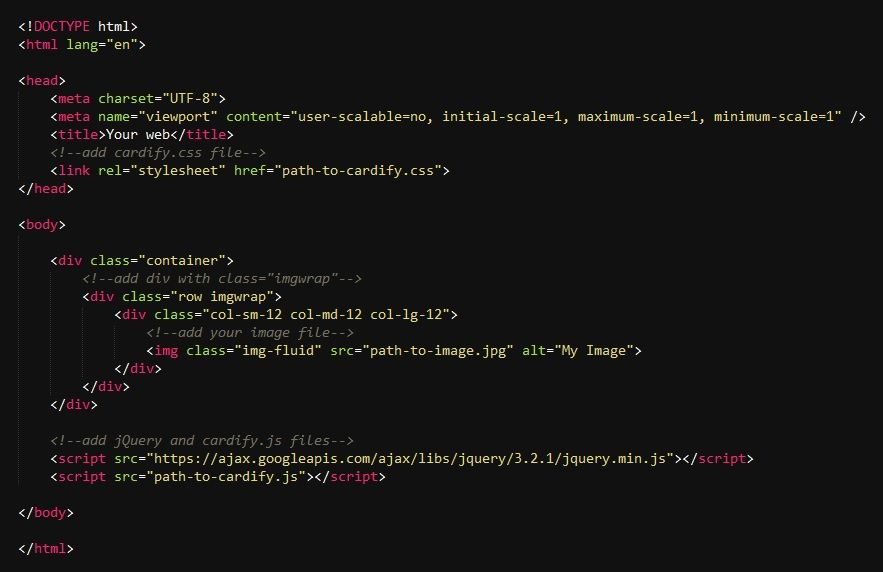
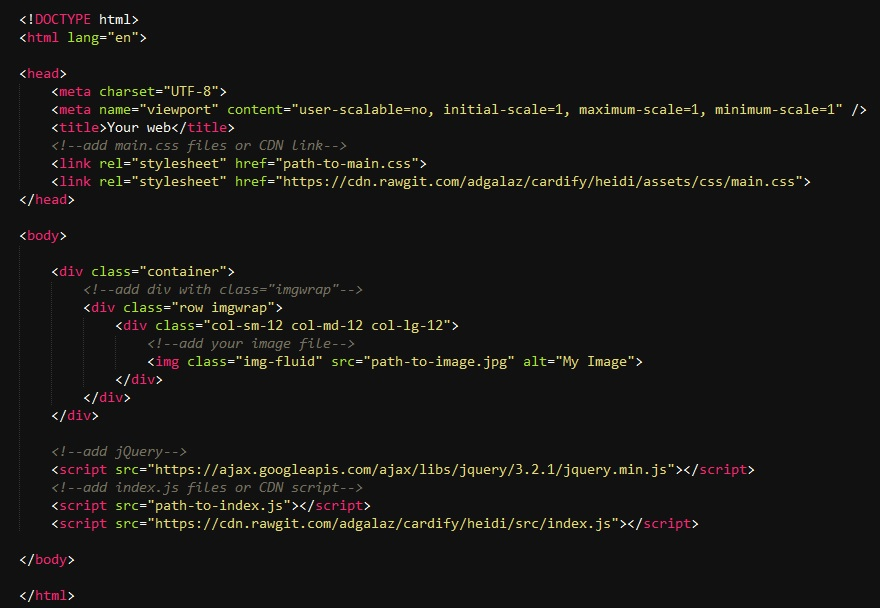
quitando informacion sobre cdn de html y readme

Changed region(s): [[0.0, 0.0, 0.9818, 1.0]]

diff --git a/index.html b/index.html
@@ -7,7 +7,7 @@
   <title>Cardify 2.0</title>
   <link rel="stylesheet" href="https://maxcdn.bootstrapcdn.com/bootstrap/4.0.0-alpha.6/css/bootstrap.min.css" integrity="sha384-rwoIResjU2yc3z8GV/NPeZWAv56rSmLldC3R/AZzGRnGxQQKnKkoFVhFQhNUwEyJ" crossorigin="anonymous">
   <link href="https://fonts.googleapis.com/css?family=Gochi+Hand|Open+Sans:300,400,600,700,800|Pacifico" rel="stylesheet">
-  <link rel="stylesheet" href="assets/css/cardify.css">
+  <link rel="stylesheet" href="assets/css/main.css">
   <link rel="stylesheet" href="assets/css/style.css">
 </head>
 
@@ -68,7 +68,7 @@
       </div>
       <div class="row">
         <div class="col-sm-12 col-md-12 col-lg-12">
-          <h4>a. Local installation</h4>
+          <h4>Local installation</h4>
             <p>
               To install cardify 2.0 locally in your project follow these steps:
             </p>
@@ -88,7 +88,7 @@
           </div>
           <div class="card">
             <div class="card-header">
-              2. Download the file "cardify.css" from github and add it to your project by writing the path in your html.
+              2. Download the file "main.css" from github and add it to your project by writing the path in your html.
             </div>
             <div class="card-block">
               <p id="step2" class="card-text">
@@ -98,7 +98,7 @@
           </div>
           <div class="card">
             <div class="card-header">
-              3. Download the file "cardify.js" from github and add it to your project by writing the path in your html.
+              3. Download the file "index.js" from github and add it to your project by writing the path in your html.
             </div>
             <div class="card-block">
               <p id="step3" class="card-text">
@@ -120,41 +120,6 @@
       </div>
       <div class="row">
         <div class="col-sm-12 col-md-12 col-lg-12">
-          <h4>b. Global installation</h4>
-          <p>
-            To install cardify 2.0 by CDN to your project add these links:
-          </p>
-        </div>
-      </div>
-      <div class="row">
-        <div class="col-sm-12 col-md-12 col-lg-12">
-          <div class="card">
-            <div class="card-header">
-              1. Add jQuery in your project.
-            </div>
-            <div class="card-block">
-              <p class="card-text step1">
-                <!--Add script jQuery-->
-              </p>
-            </div>
-          </div>
-          <div class="card">
-            <div class="card-header">
-              2. Add with CDN in your proyect.
-            </div>
-            <div class="card-block">
-              <p id="step5" class="card-text">
-                <!--Add a container with class="imgwrap"-->
-              </p>
-              <p id="step6" class="card-text">
-                <!--Add a container with class="imgwrap"-->
-              </p>
-            </div>
-          </div>
-        </div>
-      </div>
-      <div class="row">
-        <div class="col-sm-12 col-md-12 col-lg-12">
           <h3>Use</h3>
           <hr class="my-4">
         </div>
@@ -162,7 +127,7 @@
       <div class="row">
         <div class="col-sm-12 col-md-12 col-lg-12">
           <p>
-            Users can install cardify locally or globally to their projects. For a local installation they must download the files from github. For a global installation they can add some CDN links to their projects.
+            Users can install cardify locally to their projects. For a local installation they must download the files from github.
           </p>
           <p>The following example shows how users can add the plugin to their projects.</p>
         </div>
@@ -232,7 +197,7 @@
     <script src="https://cdnjs.cloudflare.com/ajax/libs/tether/1.4.0/js/tether.min.js" integrity="sha384-DztdAPBWPRXSA/3eYEEUWrWCy7G5KFbe8fFjk5JAIxUYHKkDx6Qin1DkWx51bBrb" crossorigin="anonymous"></script>
     <script src="https://maxcdn.bootstrapcdn.com/bootstrap/4.0.0-alpha.6/js/bootstrap.min.js" integrity="sha384-vBWWzlZJ8ea9aCX4pEW3rVHjgjt7zpkNpZk+02D9phzyeVkE+jo0ieGizqPLForn" crossorigin="anonymous"></script>
     <script defer src="https://use.fontawesome.com/releases/v5.0.6/js/all.js"></script>
-    <script type="text/javascript" src="assets/js/cardify.js"></script>
+    <script type="text/javascript" src="assets/js/index.js"></script>
     <script type="text/javascript" src="assets/js/app.js"></script>
 
 </body>

diff --git a/assets/js/app.js b/assets/js/app.js
@@ -3,10 +3,10 @@ $(document).ready(function() {
 	$('.img').text('<img>');
 	$('.figcaption').text('<figcaption>');
   $('.step1').text('<script src="https://ajax.googleapis.com/ajax/libs/jquery/3.2.1/jquery.min.js"></script>');
-  $('#step2').text('<link rel="stylesheet" href="path-to-cardify.css">');
-  $('#step3').text('<link rel="stylesheet" href="path-to-cardify.js">');
+  $('#step2').text('<link rel="stylesheet" href="path-to-main.css">');
+  $('#step3').text('<link rel="stylesheet" href="path-to-index.js">');
   $('#step4').text('<div class="imgwrap"><img src="path-to-image.jpg" alt="my image"></div>');
-  $('#step5').text('<link rel="stylesheet" href="https://cdn.rawgit.com/adgalaz/cardify/heidi/assets/css/cardify.css">');
-  $('#step6').text('<script src="https://cdn.rawgit.com/adgalaz/cardify/heidi/src/cardify.js"></script>');
+  $('#step5').text('<link rel="stylesheet" href="https://cdn.rawgit.com/adgalaz/cardify/heidi/assets/css/main.css">');
+  $('#step6').text('<script src="https://cdn.rawgit.com/adgalaz/cardify/heidi/src/index.js"></script>');
 });
 

diff --git a/README.md b/README.md
@@ -23,16 +23,16 @@ Cardify2.0 es un complemento de jQuery que agrega un simple efecto de hover a tu
 <script src="https://ajax.googleapis.com/ajax/libs/jquery/3.2.1/jquery.min.js"></script>
 ```
 
-2. Agrega el archivo cardify.css a tu carpeta css, escribiendo la ruta correcta en tu html.
+2. Agrega el archivo main.css a tu carpeta css, escribiendo la ruta correcta en tu html.
 
 ```
-<link rel="stylesheet" href="path-to-cardify.css">
+<link rel="stylesheet" href="path-to-main.css">
 ```
 
-3. Agrega el archivo cardify.js a tu carpeta js, escribiendo la ruta correcta en tu html.
+3. Agrega el archivo index.js a tu carpeta js, escribiendo la ruta correcta en tu html.
 
 ```
-<script src="path-to-cardify.js"></script>
+<script src="path-to-index.js"></script>
 ```
 
 4. Agrega un container en tu html con la clase "imgwrap"
@@ -41,29 +41,9 @@ Cardify2.0 es un complemento de jQuery que agrega un simple efecto de hover a tu
 <div class="imgwrap"><img src="path-to-image.jpg" alt="my image"></div>
 ```
 
-## Global (navegador)
-
-1. Agrega jQuery a tu proyecto
-
-```
-<script src="https://ajax.googleapis.com/ajax/libs/jquery/3.2.1/jquery.min.js"></script>
-```
-
-2. Agrega los links de CDN en tu proyecto.
-
-```
-<link rel="stylesheet" href="https://cdn.rawgit.com/adgalaz/cardify/heidi/assets/css/cardify.css">
-```
-
-```
-<script src="https://cdn.rawgit.com/adgalaz/cardify/heidi/src/cardify.js"></script>
-```
-
 # Uso
 
-* El usuario puede instalar el plugin de dos maneras. 
-- De forma local descargando los archivos cardify.css y cardify.js directamente desde github y agregandolas a sus carpetas de proyecto css y js. 
-- De forma global puede hacerlo a traves de CDN agregando a su proyecto el link y script que corresponden.
+* El usuario puede instalar el plugin de manera local. Para ello, puede hacerlo descargando los archivos main.css e index.js directamente desde github y agregandolas a sus carpetas de proyecto css y js. 
 
 ```
 <!DOCTYPE html>
@@ -73,8 +53,8 @@ Cardify2.0 es un complemento de jQuery que agrega un simple efecto de hover a tu
   <meta charset="UTF-8">
   <meta name="viewport" content="user-scalable=no, initial-scale=1, maximum-scale=1, minimum-scale=1" />
   <title>Your web</title>
-  <!--add cardify.css file-->
-  <link rel="stylesheet" href="path-to-cardify.css">
+  <!--add main.css file-->
+  <link rel="stylesheet" href="path-to-main.css">
 </head>
 
 <body>
@@ -89,10 +69,10 @@ Cardify2.0 es un complemento de jQuery que agrega un simple efecto de hover a tu
       </div>
     </div>
 
-  <!--add jQuery and cardify.js files-->
+  <!--add jQuery and index.js files-->
   <script src="https://ajax.googleapis.com/ajax/libs/jquery/3.2.1/jquery.min.js"></script>
-  <script src="path-to-cardify.js"></script>
-
+  <script src="path-to-index.js"></script>
+  
 </body>
 
 </html>
